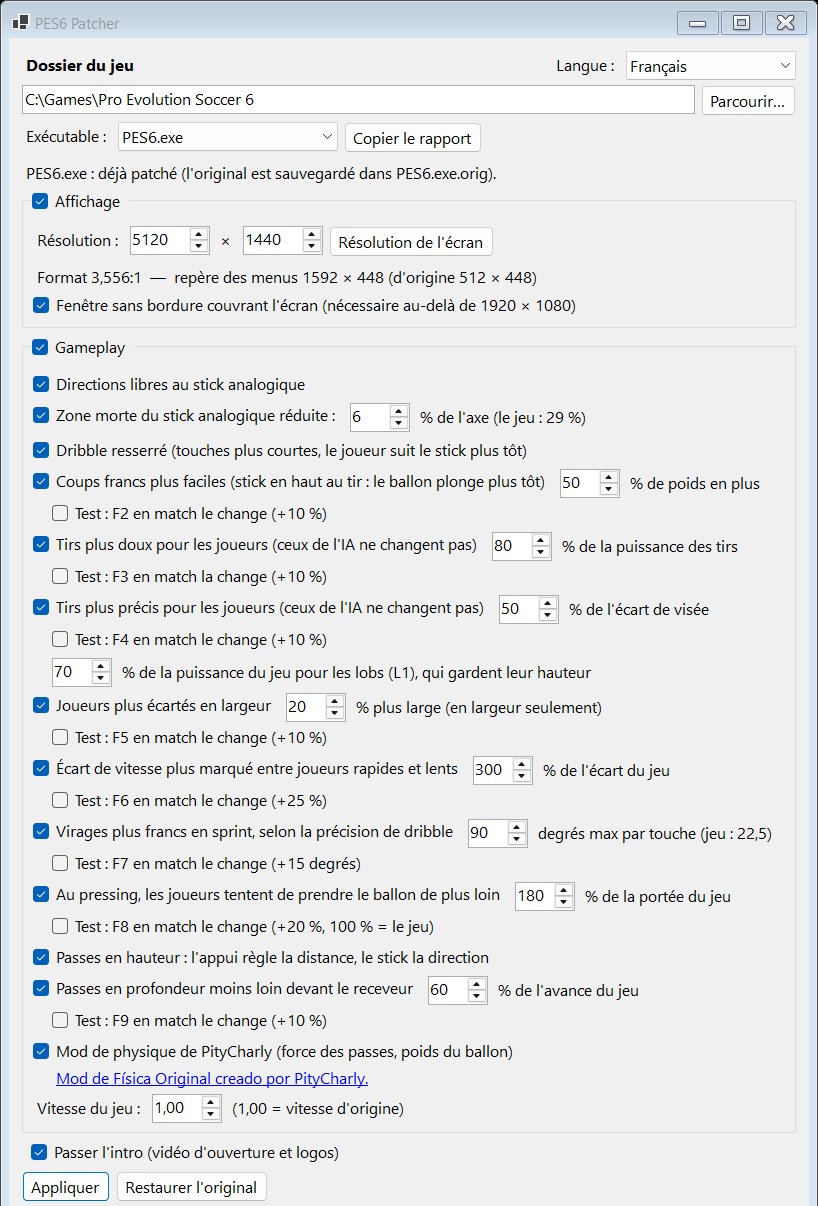
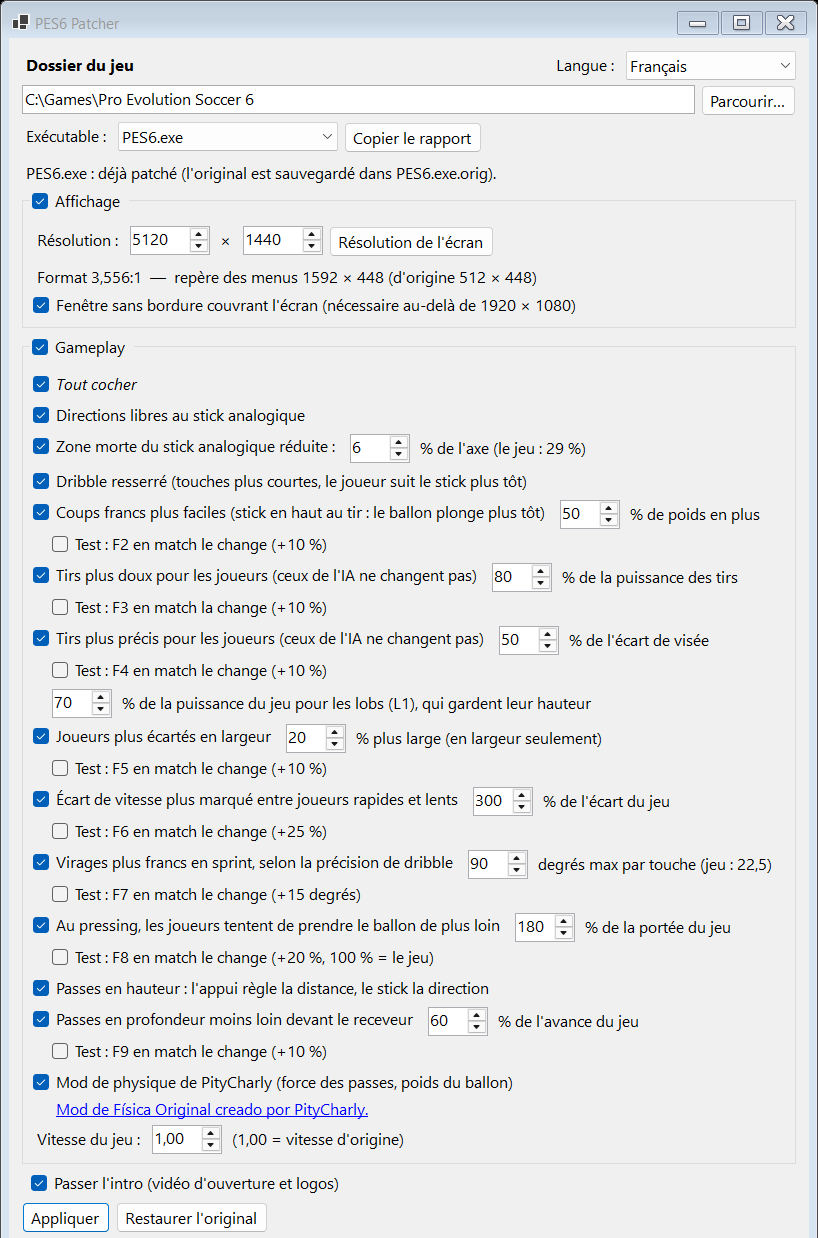
Add a check-all box to the gameplay options
A click checks or unchecks every available gameplay option (not the test
keys); the box shows checked when they all are. The README screenshots show
it.

diff --git a/src/PES6Patcher/MainForm.cs b/src/PES6Patcher/MainForm.cs
@@ -26,6 +26,7 @@ internal sealed class MainForm : Form
     private readonly NumericUpDown _height = new() { Minimum = 480, Maximum = 4320, Increment = 10, Width = 80 };
     private readonly Label _formatInfo = new() { AutoSize = true, Margin = new Padding(3, 6, 3, 3) };
     private readonly CheckBox _borderless = new() { Text = Loc.T("Display.Borderless"), AutoSize = true, Checked = true };
+    private readonly CheckBox _checkAll = new() { Text = Loc.T("Gameplay.CheckAll"), AutoSize = true, Font = new Font("Segoe UI", 9.5f, FontStyle.Italic) };
     private readonly CheckBox _freeDirection = new() { Text = Loc.T("Gameplay.FreeDirection"), AutoSize = true, Checked = true };
     private readonly CheckBox _stickDeadZone = new() { Text = Loc.T("Gameplay.StickDeadZone"), AutoSize = true, Checked = true };
     private readonly NumericUpDown _stickDeadZonePercent = new()
@@ -143,6 +144,13 @@ internal sealed class MainForm : Form
         _stickDeadZone.CheckedChanged += (_, _) => _stickDeadZonePercent.Enabled = _stickDeadZone.Enabled && _stickDeadZone.Checked;
         _passLead.EnabledChanged += (_, _) => _passLeadPercent.Enabled = _passLeadDebug.Enabled = _passLead.Enabled && _passLead.Checked;
         _passLead.CheckedChanged += (_, _) => _passLeadPercent.Enabled = _passLeadDebug.Enabled = _passLead.Enabled && _passLead.Checked;
+        // "check all": a click sets every available option; it shows as checked when they all are
+        _checkAll.Click += (_, _) => { foreach (var option in GameplayOptions.Where(o => o.Enabled)) option.Checked = _checkAll.Checked; };
+        foreach (var option in GameplayOptions)
+        {
+            option.CheckedChanged += (_, _) => UpdateCheckAll();
+            option.EnabledChanged += (_, _) => UpdateCheckAll();
+        }
         _physicsCredit.LinkClicked += (_, _) => Process.Start(new ProcessStartInfo(PhysicsMod.Url) { UseShellExecute = true });
         _apply.Click += (_, _) => Run(game => Installer.Apply(game, CurrentSettings(), Log));
         _restore.Click += (_, _) => Run(game => Installer.Restore(game, Log));
@@ -164,6 +172,7 @@ internal sealed class MainForm : Form
             _formatInfo,
             _borderless);
         var gameplay = Group(_gameplay,
+            _checkAll,
             _freeDirection,
             Flow(_stickDeadZone, _stickDeadZonePercent, LabelText(Loc.T("Gameplay.StickDeadZonePercent"))),
             _closeDribble,
@@ -297,6 +306,17 @@ internal sealed class MainForm : Form
             TackleDebug: _tackleDebug.Checked, LoftedAim: _loftedAim.Enabled && _loftedAim.Checked,
             PassLead: _passLead.Enabled && _passLead.Checked ? (int)_passLeadPercent.Value : 100, PassLeadDebug: _passLeadDebug.Checked,
             StickDeadZone: _stickDeadZone.Enabled && _stickDeadZone.Checked ? (int)_stickDeadZonePercent.Value : PatchOptions.GameStickDeadZone);
+
+    /// <summary>The gameplay options that "check all" sets (not the test keys).</summary>
+    private CheckBox[] GameplayOptions =>
+        [_freeDirection, _stickDeadZone, _closeDribble, _freeKick, _shot, _accuracy, _spread, _speedGap, _sprintTurn, _tackle, _loftedAim, _passLead, _physicsMod];
+
+    private void UpdateCheckAll()
+    {
+        var available = GameplayOptions.Where(o => o.Enabled).ToList();
+        _checkAll.Checked = available.Count > 0 && available.All(o => o.Checked);
+        _checkAll.Enabled = available.Count > 0;
+    }
 
     /// <summary>Apply needs a patchable exe and at least one group (or the intro skip) selected.</summary>
     private void UpdateApply()
